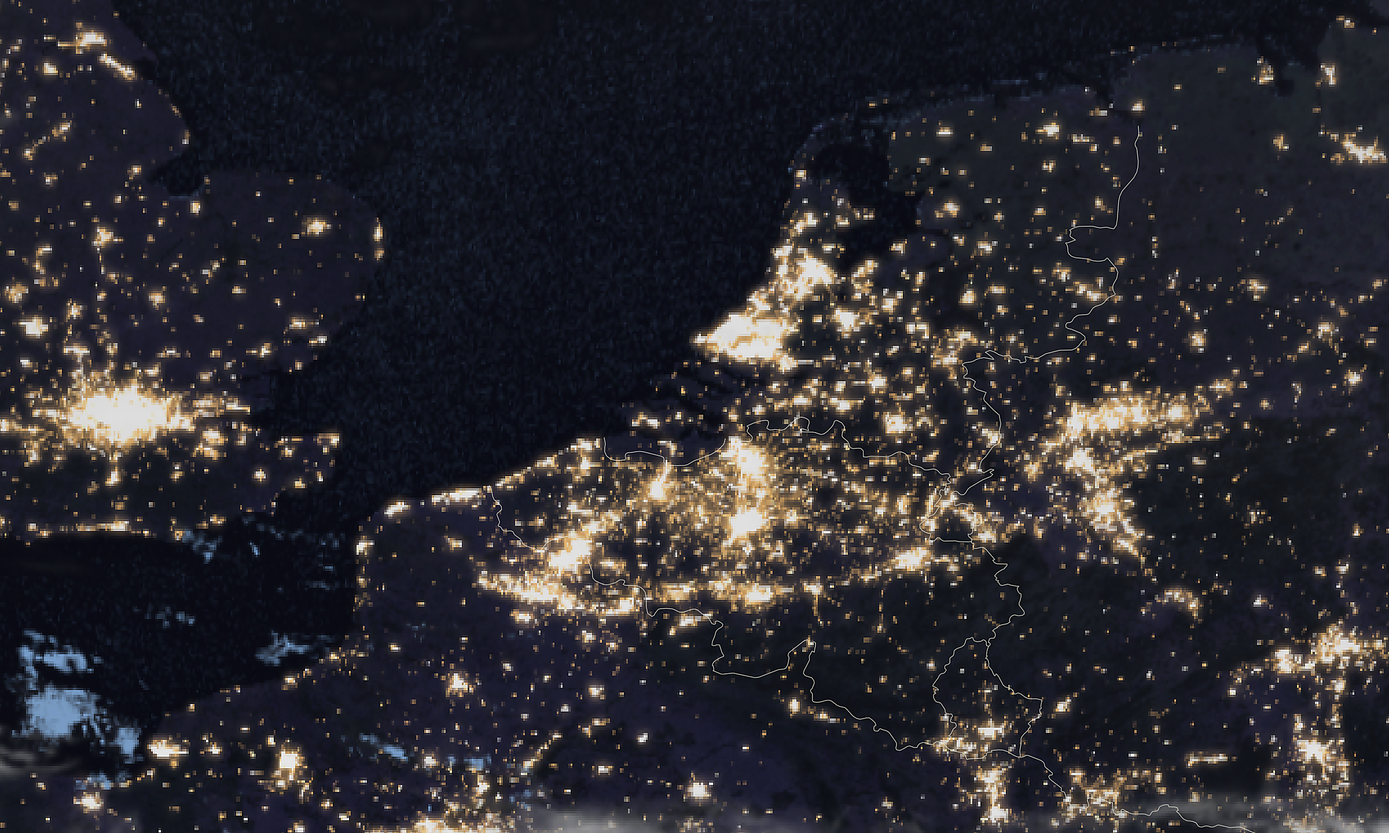
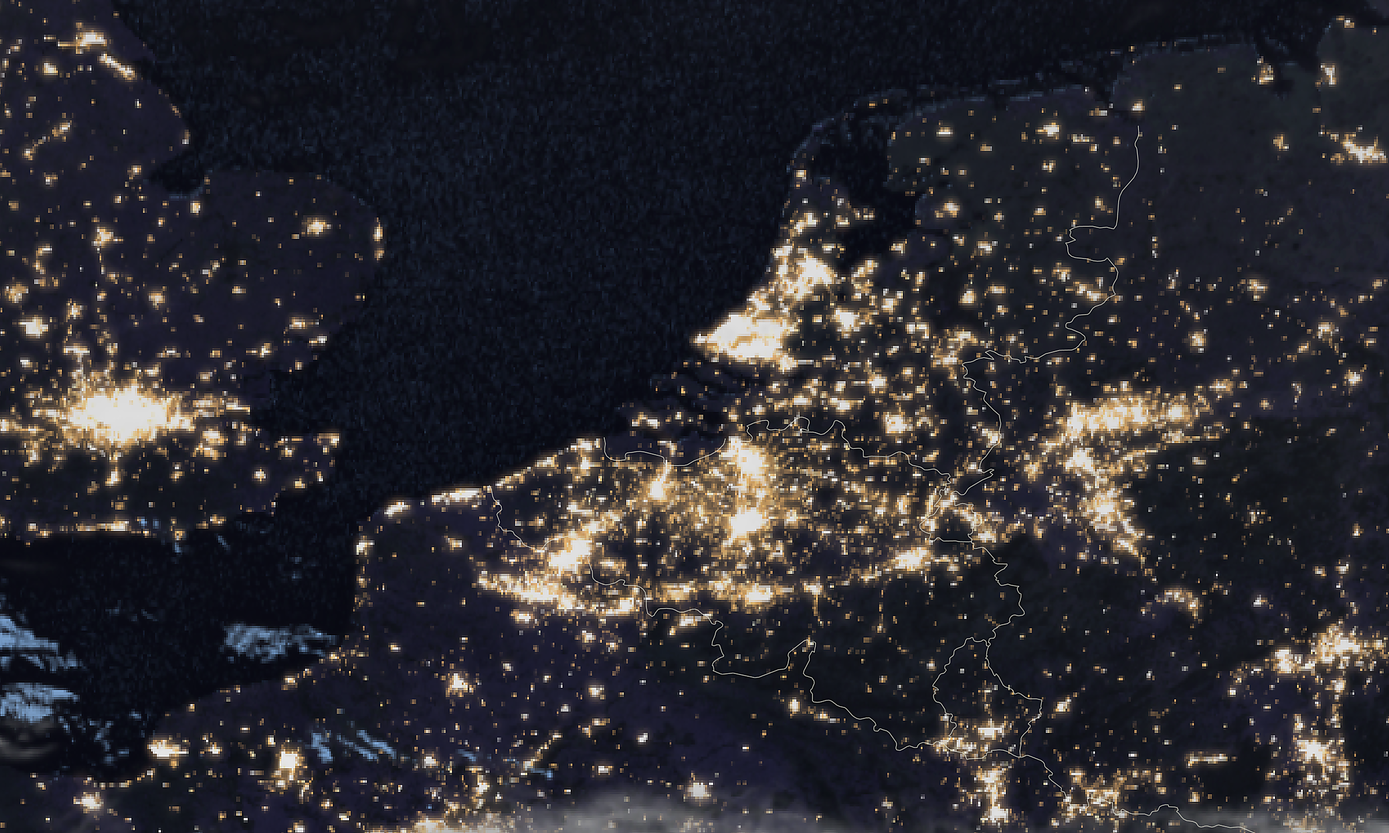
MTG Benelux satellietbeeld update 2026-04-29 05:45

diff --git a/mtg_benelux_meta.js b/mtg_benelux_meta.js
@@ -1,2 +1,2 @@
 const MTG_BENELUX_PRODUCT = "mtg_fd:rgb_geocolour";
-const MTG_BENELUX_TIJD = "2026-04-29T03:10:00Z";
+const MTG_BENELUX_TIJD = "2026-04-29T03:20:00Z";
